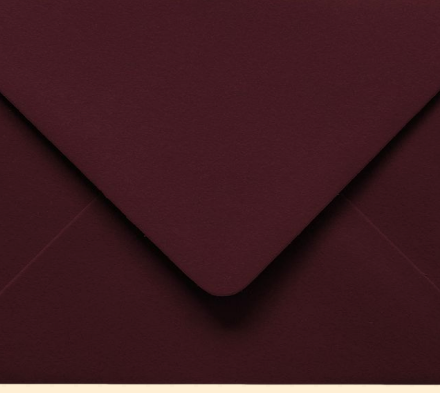
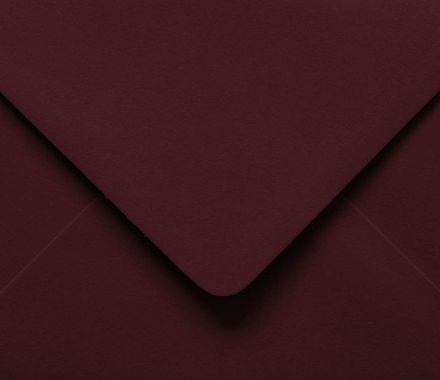
Fix: Remove cream border for pure maroon background, optimize mobile keyboard auto-open, and auto-start music on code unlock

diff --git a/index.html b/index.html
@@ -22,9 +22,9 @@
 </script>
 <meta charset="UTF-8">
 <meta name="viewport" content="width=device-width, initial-scale=1.0, maximum-scale=1.0, user-scalable=no, viewport-fit=cover, interactive-widget=resizes-content">
-<meta name="theme-color" content="#431A22">
-<meta name="theme-color" media="(prefers-color-scheme: light)" content="#431A22">
-<meta name="theme-color" media="(prefers-color-scheme: dark)" content="#431A22">
+<meta name="theme-color" content="#2F1216">
+<meta name="theme-color" media="(prefers-color-scheme: light)" content="#2F1216">
+<meta name="theme-color" media="(prefers-color-scheme: dark)" content="#2F1216">
 <meta name="apple-mobile-web-app-capable" content="yes">
 <meta name="apple-mobile-web-app-status-bar-style" content="black-translucent">
 <title>Garima weds Mrinal · Invitation Gateway</title>
@@ -80,7 +80,7 @@ html, body {
   margin: 0;
   padding: 0;
   overflow: hidden;
-  background-color: #431A22;
+  background-color: #2F1216;
   font-family: 'Spectral', Georgia, serif;
   color: #FFFFFF;
   touch-action: pan-x pan-y;
@@ -97,7 +97,7 @@ html, body {
   flex-direction: column;
   align-items: center;
   justify-content: flex-start;
-  background: #431A22;
+  background-color: #2F1216;
   overflow: hidden;
   opacity: 0;
   animation: authFadeIn 0.5s cubic-bezier(0.16, 1, 0.3, 1) forwards;
@@ -108,7 +108,7 @@ html, body {
   to { opacity: 1; }
 }
 
-/* ── 1:1 Pixel-Perfect Background Envelope (Unstretched / Unsqueezed) ── */
+/* ── 1:1 Pixel-Perfect Background Envelope (Seamless Maroon Blend, Zero White Border) ── */
 .auth-envelope-stage {
   position: absolute;
   top: 0;
@@ -116,7 +116,7 @@ html, body {
   transform: translateX(-50%);
   width: 100%;
   max-width: 440px;
-  height: 393px;
+  height: 380px;
   pointer-events: none;
   z-index: 1;
   overflow: hidden;
@@ -131,6 +131,8 @@ html, body {
   user-select: none;
   -webkit-user-drag: none;
   transition: transform 0.75s cubic-bezier(0.16, 1, 0.3, 1), opacity 0.6s ease;
+  -webkit-mask-image: linear-gradient(to bottom, #000 90%, transparent 100%);
+  mask-image: linear-gradient(to bottom, #000 90%, transparent 100%);
 }
 
 /* ── Content Stack (Strict 40px Top Gap) ── */
@@ -368,16 +370,16 @@ html, body {
 <body>
 
 <main class="auth-viewport" id="auth-viewport">
-  <!-- Exact Figma Envelope Background -->
+  <!-- Exact Figma Envelope Background (Seamless Maroon, Zero Cream Line) -->
   <div class="auth-envelope-stage" aria-hidden="true">
     <picture>
       <source srcset="images/auth/envelope_bg.webp" type="image/webp">
-      <img src="images/auth/envelope_bg.png" alt="Wedding Invitation Envelope" class="auth-envelope-bg" width="440" height="393">
+      <img src="images/auth/envelope_bg.png" alt="Wedding Invitation Envelope" class="auth-envelope-bg" width="440" height="380">
     </picture>
   </div>
 
   <div class="auth-content-stack">
-    <!-- 1. Heading Lockup (Strict 2-Line Layout) -->
+    <!-- 1. Heading Lockup (Strict 2-Line Layout with 20px gap) -->
     <div class="auth-heading-wrap">
       <p class="auth-eyebrow">YOU HAVE BEEN INVITED!</p>
       <div class="auth-names">
@@ -439,33 +441,38 @@ html, body {
   // ── Keyboard Keep-Alive & Robust Focus Lock ──
   function lockFocus() {
     if (isUnlocking || !input) return;
-    if (document.activeElement !== input) {
-      input.focus({ preventScroll: true });
-    }
+    try {
+      if (document.activeElement !== input) {
+        input.focus({ preventScroll: true });
+      }
+      if ('virtualKeyboard' in navigator) {
+        navigator.virtualKeyboard.overlaysContent = true;
+        navigator.virtualKeyboard.show();
+      }
+    } catch(e) {}
   }
 
-  // Focus immediately on script execution and load
+  // Focus immediately on script parse, DOM ready, and load
   lockFocus();
   window.addEventListener('DOMContentLoaded', lockFocus);
   window.addEventListener('load', lockFocus);
+  window.addEventListener('pageshow', lockFocus);
 
   // Prevent keyboard dismiss on blur
   if (input) {
     input.addEventListener('blur', function() {
       if (!isUnlocking) {
-        requestAnimationFrame(function() {
-          input.focus({ preventScroll: true });
-        });
+        requestAnimationFrame(lockFocus);
         setTimeout(lockFocus, 20);
         setTimeout(lockFocus, 80);
       }
     });
   }
 
-  // Intercept all outside taps/clicks to keep keyboard permanently raised
+  // Intercept all outside taps/clicks to keep keyboard permanently raised on Android & iOS
   function handleOutsideInteraction(e) {
     if (isUnlocking || !input) return;
-    if (e.target === sealBtn || (sealBtn && sealBtn.contains(e.target))) {
+    if (sealBtn && (e.target === sealBtn || sealBtn.contains(e.target))) {
       return; // Allow seal click to trigger unlock validation
     }
     if (e.target !== input) {
@@ -473,6 +480,9 @@ html, body {
         e.preventDefault();
       }
       input.focus({ preventScroll: true });
+      if (typeof input.click === 'function') {
+        input.click();
+      }
     }
   }
 
@@ -485,7 +495,7 @@ html, body {
   if (window.visualViewport) {
     window.visualViewport.addEventListener('resize', function() {
       if (!isUnlocking && window.visualViewport.height >= window.innerHeight * 0.85) {
-        setTimeout(lockFocus, 50);
+        setTimeout(lockFocus, 40);
       }
     });
   }
@@ -527,6 +537,7 @@ html, body {
       localStorage.setItem('gtm2026_auth', 'true');
       localStorage.setItem('gtm2026_has_authenticated', 'true');
       localStorage.setItem('wedding_access_key', code);
+      localStorage.setItem('gtm2026_music_playing', 'true');
       sessionStorage.setItem('gtm2026_auth', 'true');
       sessionStorage.setItem('gtm2026_music_playing', 'true');
     } catch(e) {}

diff --git a/js/global-audio.js b/js/global-audio.js
@@ -86,10 +86,13 @@
     var p = audio.play();
     if (p !== undefined) {
       p.then(function() {
-        sessionStorage.setItem(STORAGE_KEY_PLAYING, 'true');
+        try {
+          sessionStorage.setItem(STORAGE_KEY_PLAYING, 'true');
+          localStorage.setItem(STORAGE_KEY_PLAYING, 'true');
+        } catch(e) {}
         updateUI(true);
       }).catch(function(err) {
-        console.warn('Audio play prevented:', err);
+        console.warn('Audio play auto-start deferred until user gesture:', err);
         updateUI(false);
       });
     }
@@ -98,7 +101,10 @@
   function pauseAudio() {
     audio.pause();
     saveTime();
-    sessionStorage.setItem(STORAGE_KEY_PLAYING, 'false');
+    try {
+      sessionStorage.setItem(STORAGE_KEY_PLAYING, 'false');
+      localStorage.setItem(STORAGE_KEY_PLAYING, 'false');
+    } catch(e) {}
     updateUI(false);
   }
 
@@ -122,6 +128,34 @@
     updateUI(!audio.paused);
   }
 
+  function autoStartIfRequested() {
+    var shouldPlay = false;
+    try {
+      shouldPlay = sessionStorage.getItem(STORAGE_KEY_PLAYING) === 'true' || 
+                   localStorage.getItem(STORAGE_KEY_PLAYING) === 'true';
+    } catch(e) {}
+
+    if (shouldPlay) {
+      playAudio();
+    }
+  }
+
+  function handleFirstGesture() {
+    var shouldPlay = false;
+    try {
+      shouldPlay = sessionStorage.getItem(STORAGE_KEY_PLAYING) === 'true' || 
+                   localStorage.getItem(STORAGE_KEY_PLAYING) === 'true';
+    } catch(e) {}
+
+    if (shouldPlay && audio && audio.paused) {
+      playAudio();
+    }
+  }
+
+  window.addEventListener('touchstart', handleFirstGesture, { passive: true, once: true });
+  window.addEventListener('pointerdown', handleFirstGesture, { passive: true, once: true });
+  window.addEventListener('click', handleFirstGesture, { passive: true, once: true });
+
   audio.addEventListener('play', function() { updateUI(true); });
   audio.addEventListener('pause', function() { updateUI(false); });
   audio.addEventListener('timeupdate', function() {
@@ -142,11 +176,19 @@
     get isPlaying() { return !audio.paused; }
   };
 
-  // NEVER AUTOPLAY ON LOAD OR GESTURE.
-  // ONLY bind the explicit button click handler and sync the current playing/paused UI state.
-  if (document.readyState === 'loading') {
-    document.addEventListener('DOMContentLoaded', bindPlayer);
-  } else {
+  function init() {
     bindPlayer();
+    autoStartIfRequested();
   }
+
+  if (document.readyState === 'loading') {
+    document.addEventListener('DOMContentLoaded', init);
+  } else {
+    init();
+  }
+
+  window.addEventListener('gtm:page-loaded', function() {
+    bindPlayer();
+    autoStartIfRequested();
+  });
 })();
